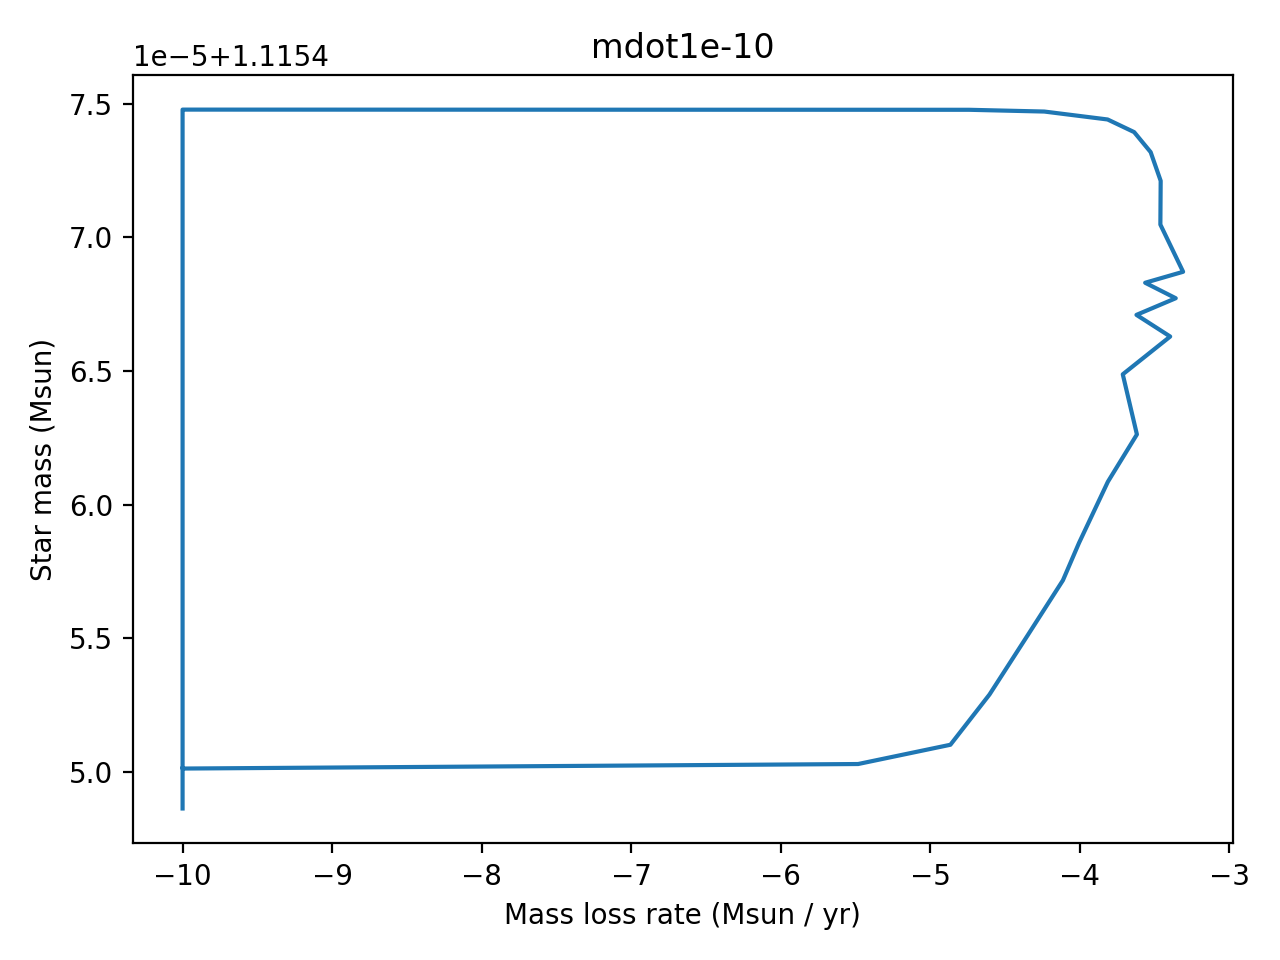
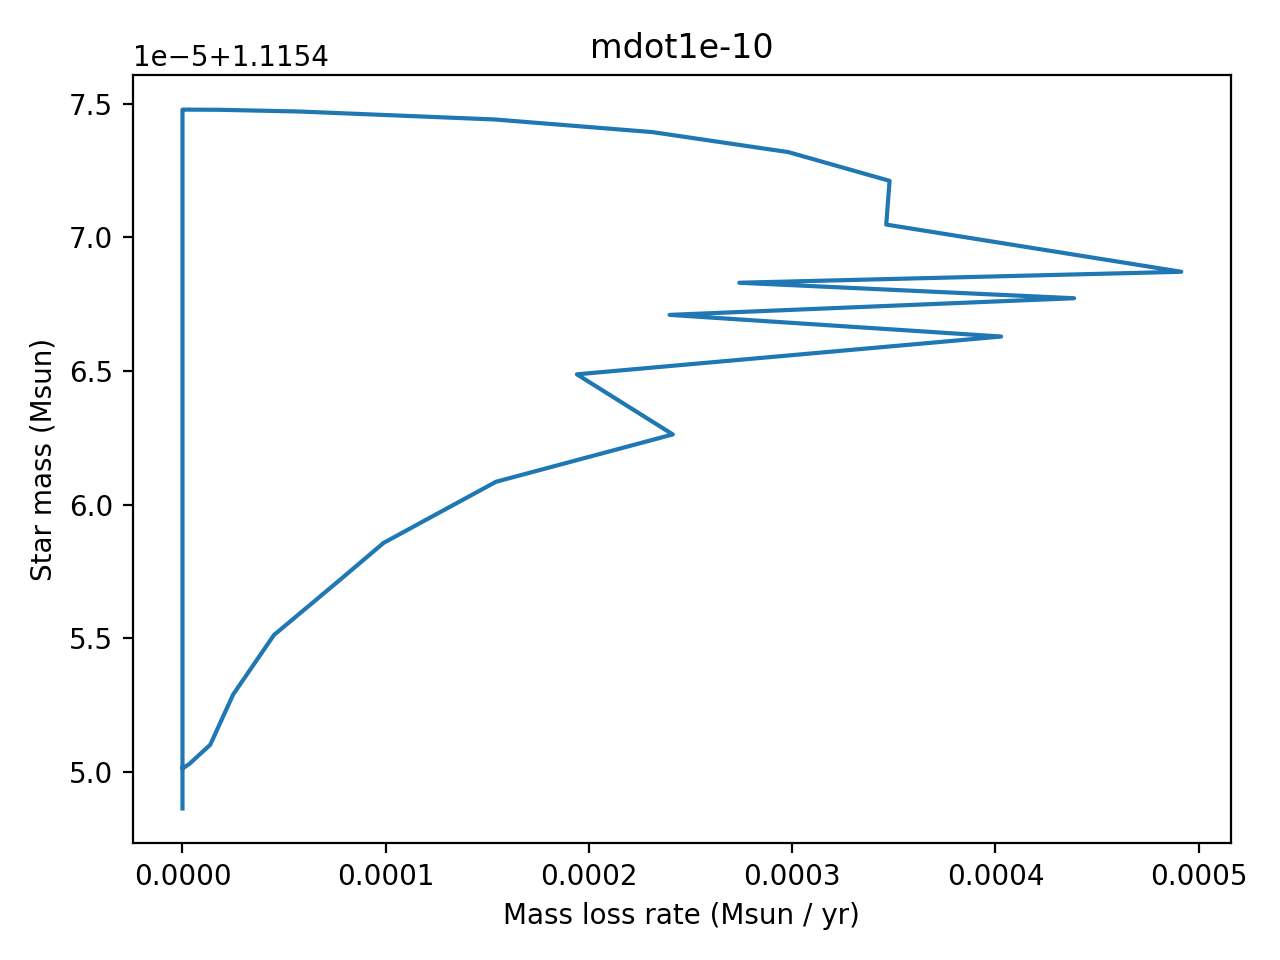
Added some conclusion elements based on findings

diff --git a/analysis/history_data_check.py b/analysis/history_data_check.py
@@ -121,6 +121,10 @@ for run_dir in sorted(RUNS_DIR.iterdir()):
     num_iters_col = find_column(df, ["num_iters"])
     model_number_col = find_column(df, ["model_number"])
     num_zones_col = find_column(df, ["num_zones"])
+    center_c12_col = find_column(df, ["center_c12"])
+    center_o16_col = find_column(df, ["center_o16"])
+    surface_c12_col = find_column(df, ["surface_c12"])
+    surface_o16_col = find_column(df, ["surface_o16"])
 
     if age_col is None or mass_col is None or log_abs_mdot_col is None:
         print(f"Warning: Required columns not found in {history_file}. Skipping.")
@@ -140,7 +144,7 @@ for run_dir in sorted(RUNS_DIR.iterdir()):
 
     # --- handle mdot consistently ---
     if log_abs_mdot_col is not None:
-        mdot = df[log_abs_mdot_col].values
+        mdot = 10.0 ** df[log_abs_mdot_col].values
     else:
         mdot = None
 
@@ -148,7 +152,7 @@ for run_dir in sorted(RUNS_DIR.iterdir()):
     M_initial = mass[0]
     M_final = mass[-1]
     delta_M = M_initial - M_final
-    print(f"Mass loss (M_final - M_initial): {delta_M} for {run_name}")
+    print(f"Mass loss (M_final - M_initial): {delta_M:.3e} for {run_name}")
 
     # integrate mdot if available
     if mdot is not None:
@@ -279,6 +283,80 @@ for run_dir in sorted(RUNS_DIR.iterdir()):
     plt.legend()
     plt.tight_layout()
     plt.savefig(FIG_DIR / f"{run_name}_pp+cno+tri_alpha+log_Lnuc_vs_age.png", dpi=200)
+    plt.close()
+
+    t_eruption = age[np.argmax(log_Lnuc)]
+
+    # plot center_c12
+    plt.figure()
+    plt.plot(age, df[center_c12_col].values, label="Center C12 Abundance")
+    plt.xlabel("Age (yr)")
+    plt.ylabel("Center C12 Abundance")
+    plt.title(run_name)
+    #plt.axvline(x=t_eruption, color='r', linestyle='--', label="Eruption Time")
+    plt.legend()
+    plt.tight_layout()
+    plt.savefig(FIG_DIR / f"{run_name}_center_c12_vs_age.png", dpi=200)
+    plt.close()
+
+    # plot center_o16
+    plt.figure()
+    plt.plot(age, df[center_o16_col].values, label="Center O16 Abundance")
+    plt.xlabel("Age (yr)")
+    plt.ylabel("Center O16 Abundance")
+    plt.title(run_name)
+    #plt.axvline(x=t_eruption, color='r', linestyle='--', label="Eruption Time")
+    plt.legend()
+    plt.tight_layout()
+    plt.savefig(FIG_DIR / f"{run_name}_center_o16_vs_age.png", dpi=200)
+    plt.close()
+
+    # plot surface_c12
+    plt.figure()
+    plt.plot(age, df[surface_c12_col].values, label="Surface C12 Abundance")
+    plt.xlabel("Age (yr)")
+    plt.ylabel("Surface C12 Abundance")
+    plt.title(run_name)
+    #plt.axvline(x=t_eruption, color='r', linestyle='--', label="Eruption Time")
+    plt.legend()
+    plt.tight_layout()
+    plt.savefig(FIG_DIR / f"{run_name}_surface_c12_vs_age.png", dpi=200)
+    plt.close()
+
+    # plot surface_o16
+    plt.figure()
+    plt.plot(age, df[surface_o16_col].values, label="Surface O16 Abundance")
+    plt.xlabel("Age (yr)")
+    plt.ylabel("Surface O16 Abundance")
+    plt.title(run_name)
+    #plt.axvline(x=t_eruption, color='r', linestyle='--', label="Eruption Time")
+    plt.legend()
+    plt.tight_layout()
+    plt.savefig(FIG_DIR / f"{run_name}_surface_o16_vs_age.png", dpi=200)
+    plt.close()
+
+    # plot surface_o16
+    plt.figure()
+    plt.plot(age, df[surface_o16_col].values, label="Surface O16 Abundance")
+    plt.xlabel("Age (yr)")
+    plt.ylabel("Surface O16 Abundance")
+    plt.title(run_name)
+    #plt.axvline(x=t_eruption, color='r', linestyle='--', label="Eruption Time")
+    plt.legend()
+    plt.tight_layout()
+    plt.savefig(FIG_DIR / f"{run_name}_surface_o16_vs_age.png", dpi=200)
+    plt.close()
+
+    # plot total_mass_h1
+    plt.figure()
+    plt.plot(age, df[total_mass_h1_col].values, label="Total Mass H1")
+    plt.xlabel("Age (yr)")
+    plt.ylabel("Total Mass H1")
+    plt.title(run_name)
+    #plt.axvline(x=t_eruption, color='r', linestyle='--', label="Eruption Time")
+    plt.legend()
+    plt.tight_layout()
+    plt.savefig(FIG_DIR / f"{run_name}_total_mass_h1_vs_age.png", dpi=200)
     plt.close()
 
 # -------------------------------------------------

diff --git a/README.md b/README.md
@@ -24,7 +24,7 @@ $$ \tau_{acc} \approx \frac{\Delta M_{acc}}{\dot{M}} $$
 
 and others numerically solving nuclear reaction networks, convection model
 
-We start by running MESA for three different mass exchange rates being $\dot{M} = $
+We run MESA for three different mass exchange rates being $\dot{M} = $
 
 1. $10^{-8} M_{\odot}/yr$
 
@@ -40,3 +40,6 @@ $M = 1.1$ $M_{\odot}$
 
 More information in './my_nova/1.1M_lgTc_7.7.mod' and './my_nova/ready.mod' and for each run: './runs/mdot1e-NUMBER/1.1M_lgTc_7.7.mod'.
 
+The results found are that pp-chain is dominant early in the lifetime of the stars and then CNO becomes main source of fuel. See for example:
+
+![alt text](./figures/mdot1e-8_pp+cno+tri_alpha+log_Lnuc_vs_age.png)
